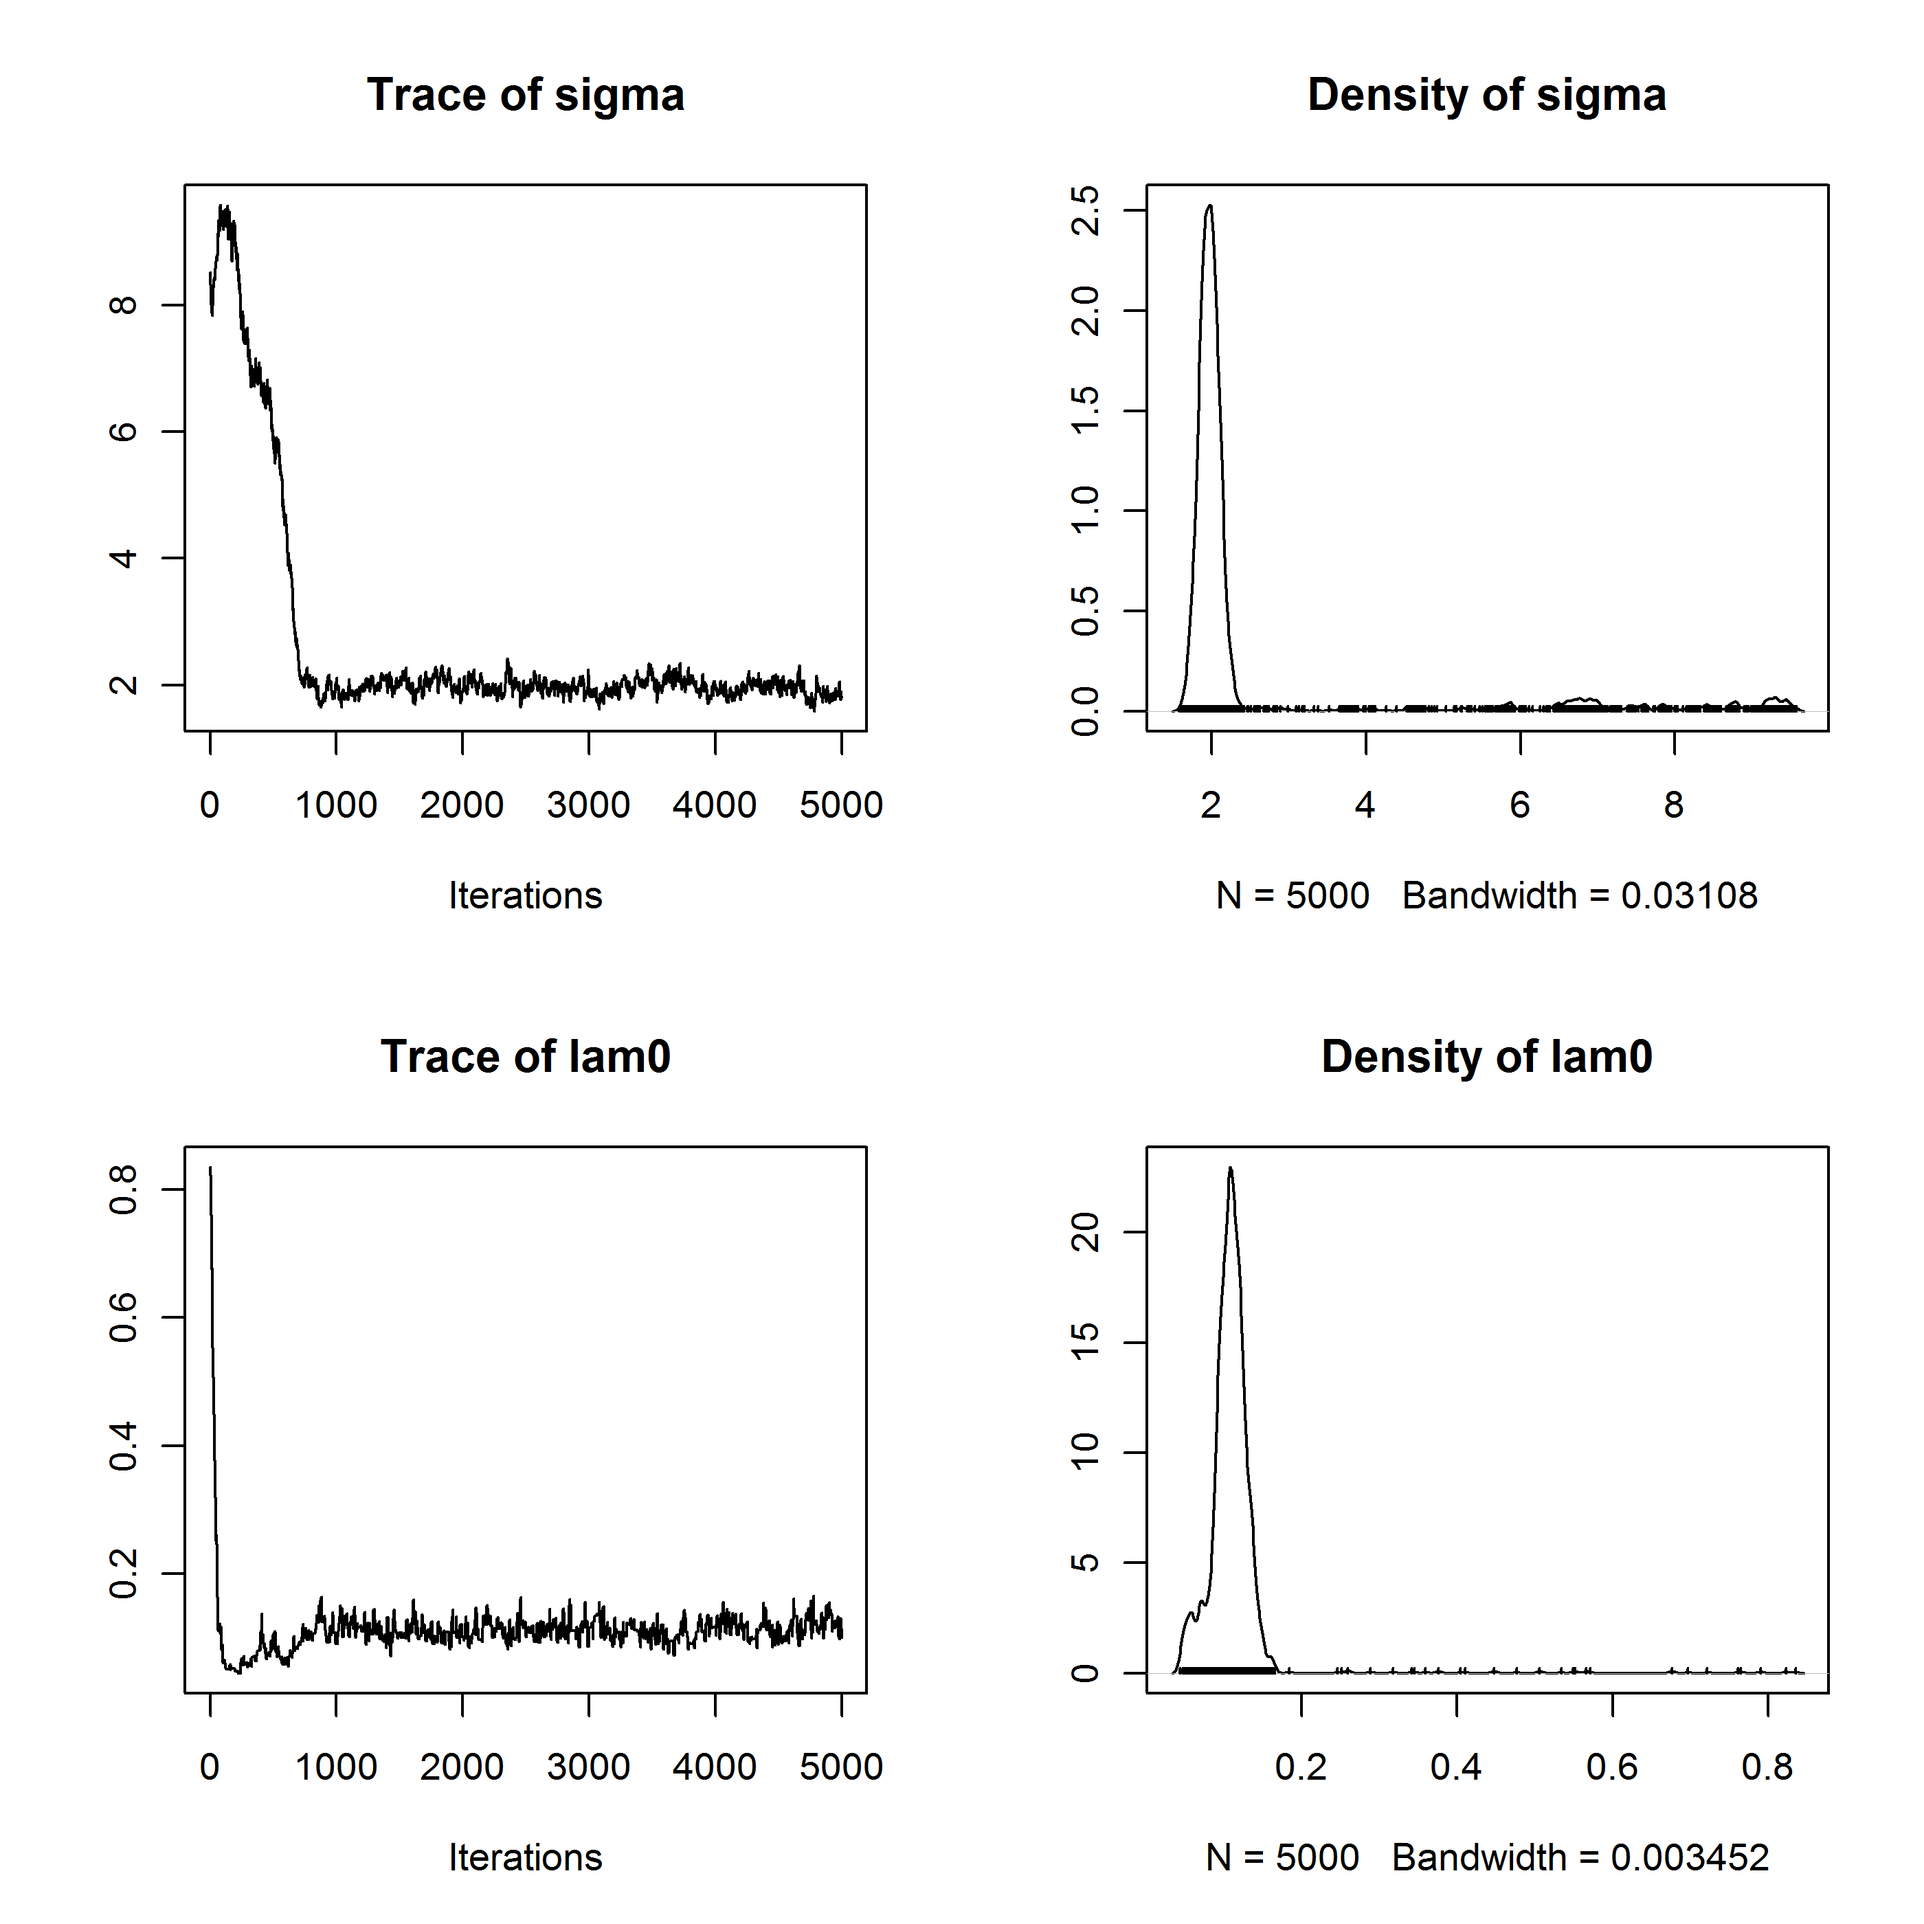
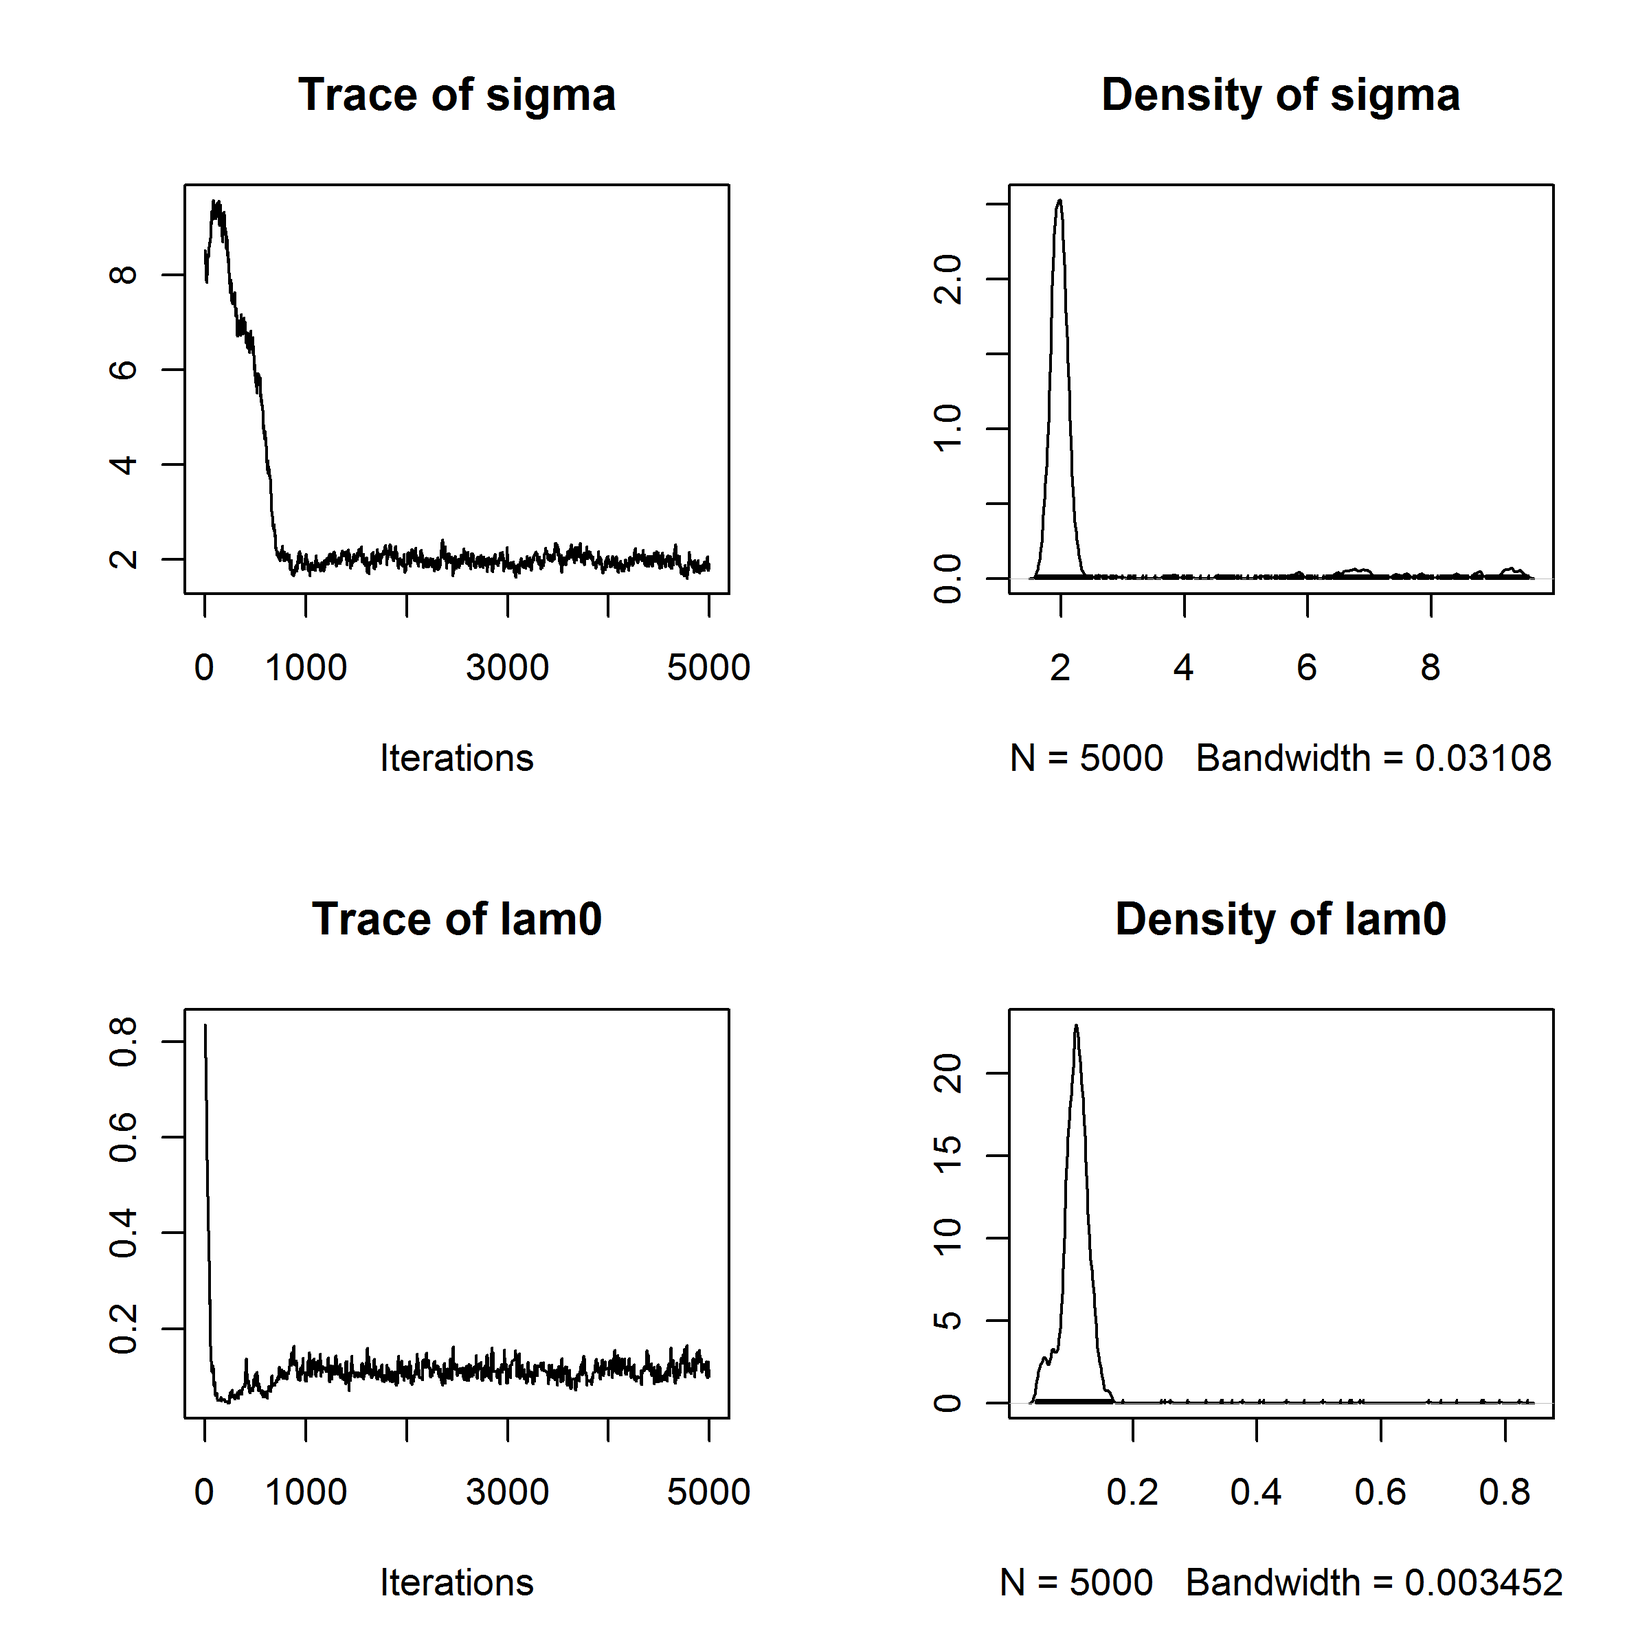
figure edits continued

diff --git a/Ch7/Ch7.tex b/Ch7/Ch7.tex
@@ -1234,7 +1234,7 @@ parameter so that the parameter space is explored more efficiently.
 
 \begin{figure}
 \begin{center}
-\includegraphics[height=2.5in]{Ch7/figs/timeseries}
+\includegraphics[height=3in]{Ch7/figs/timeseries}
 \end{center}
 \caption{Time series and posterior density plots for $\sigma$ and $\lambda_0$.}
 \label{mcmc.fig.timeseries}
